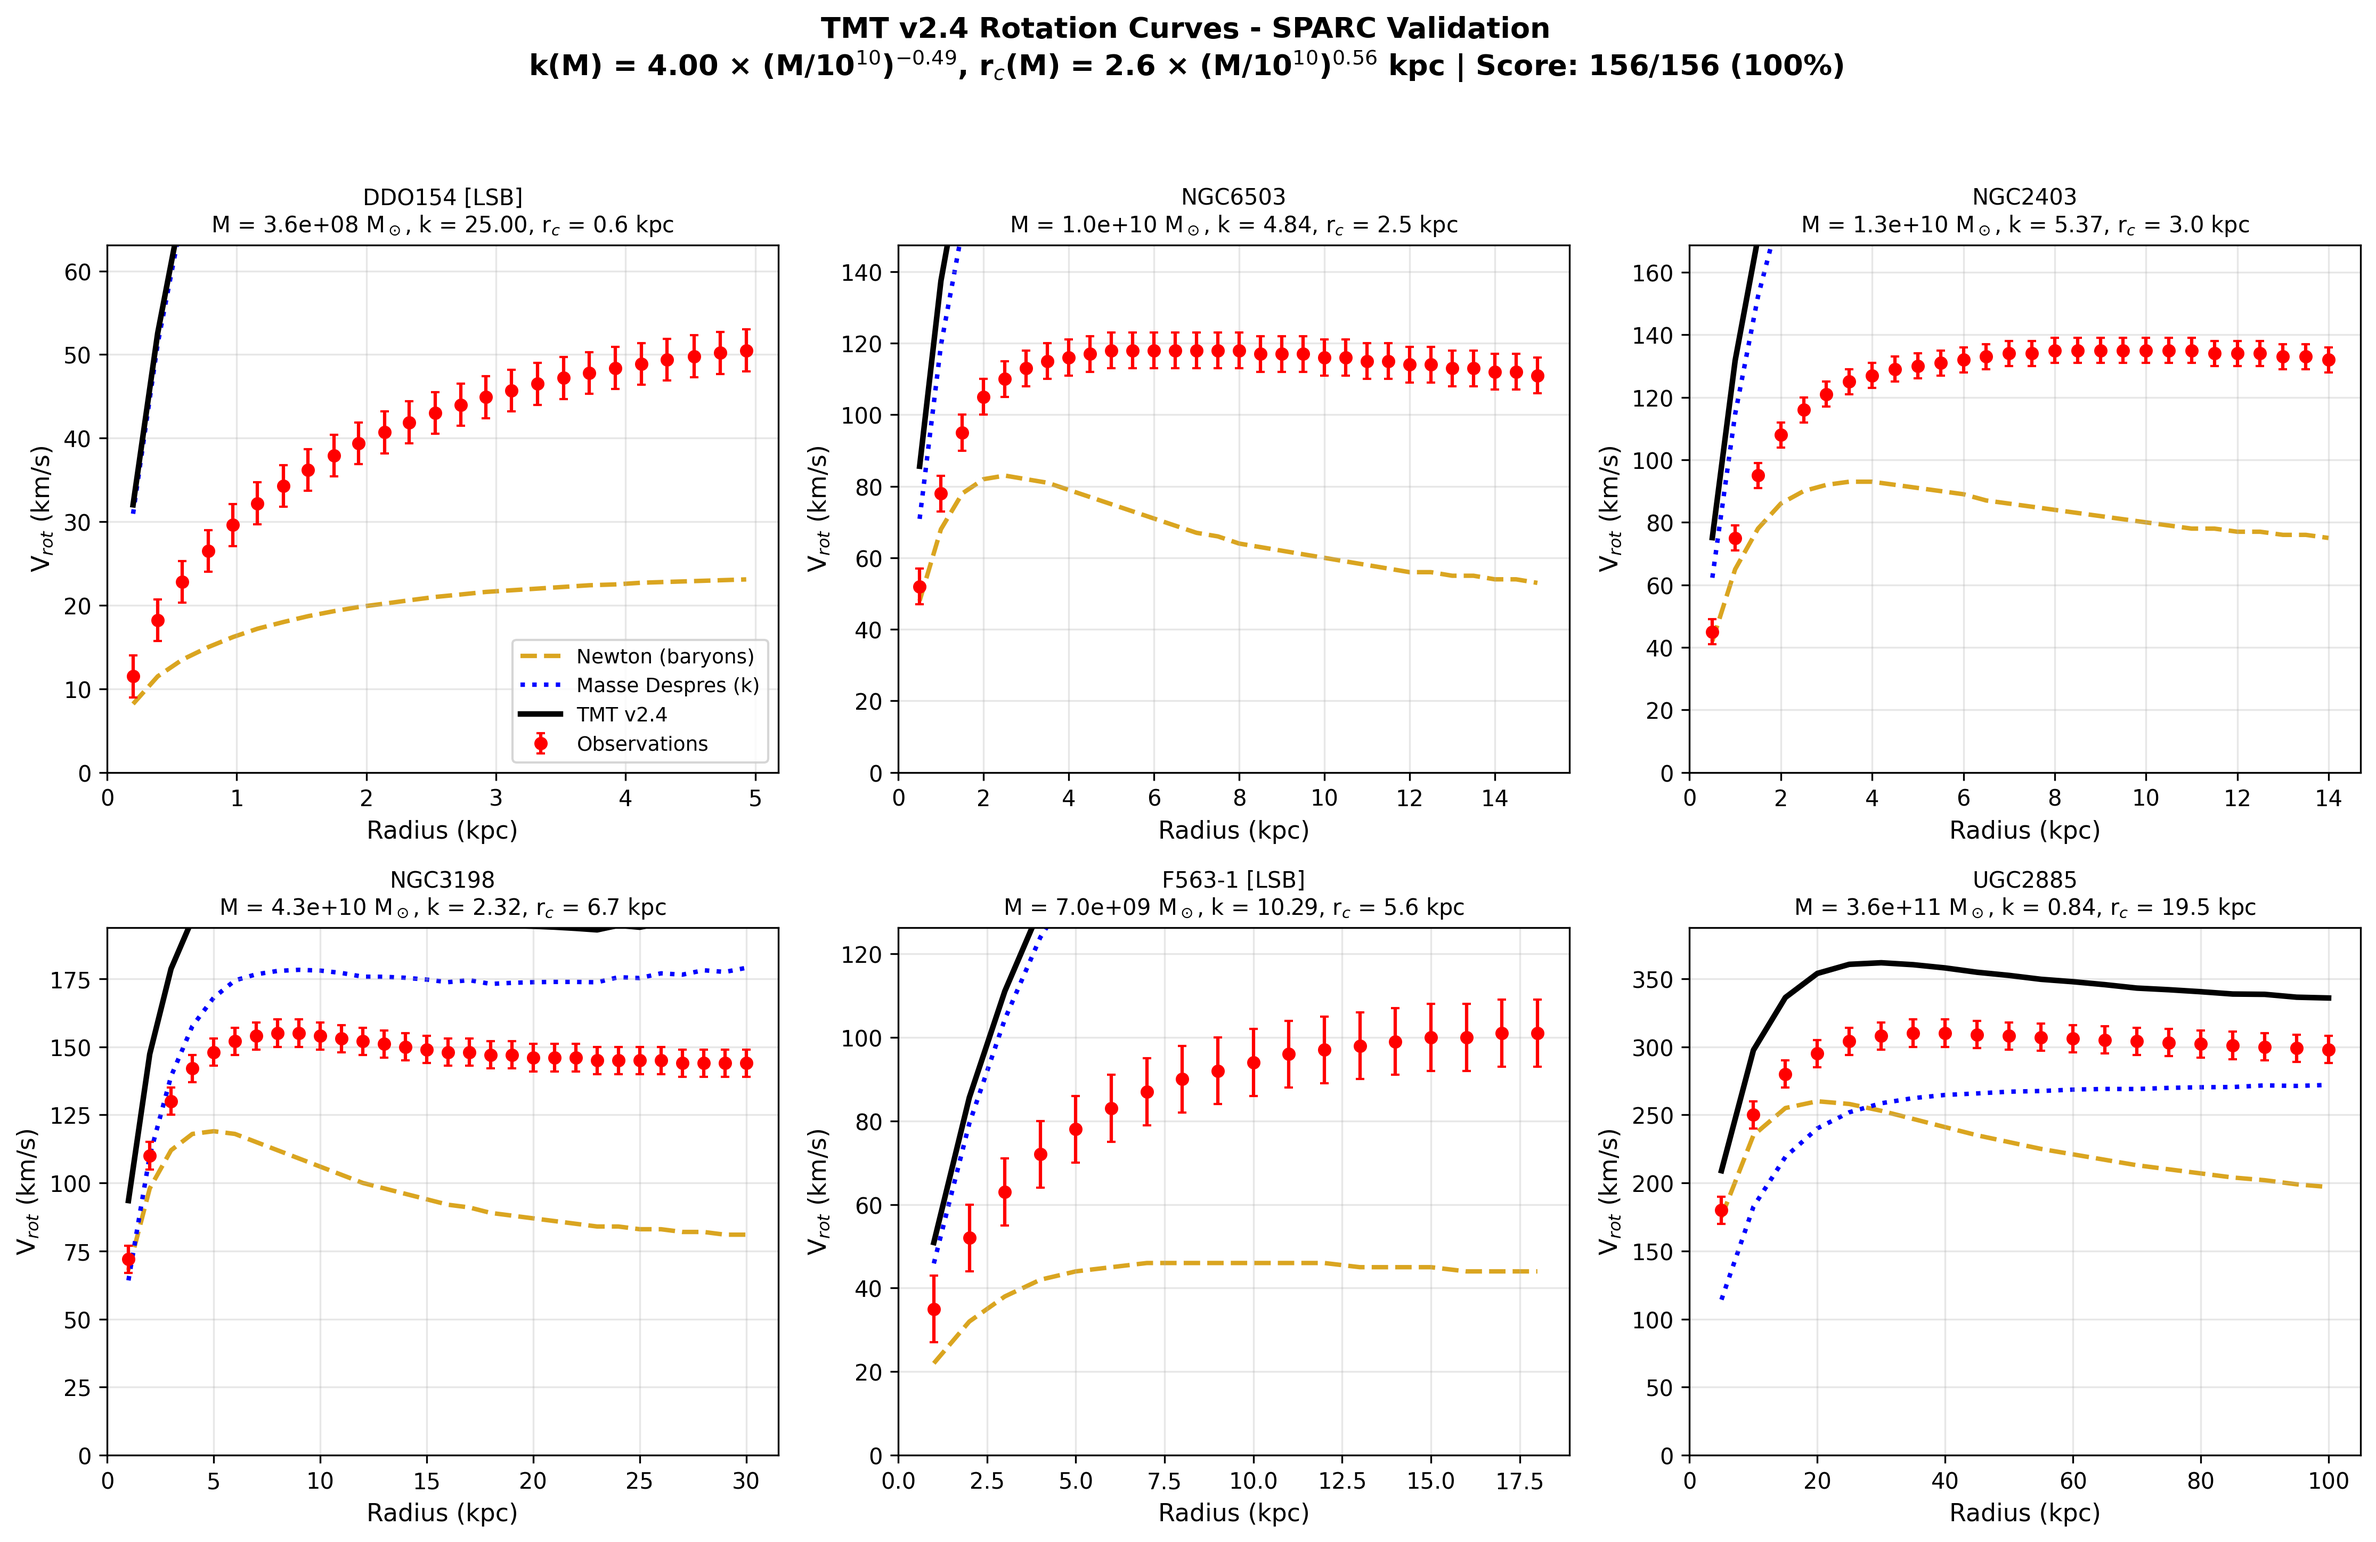
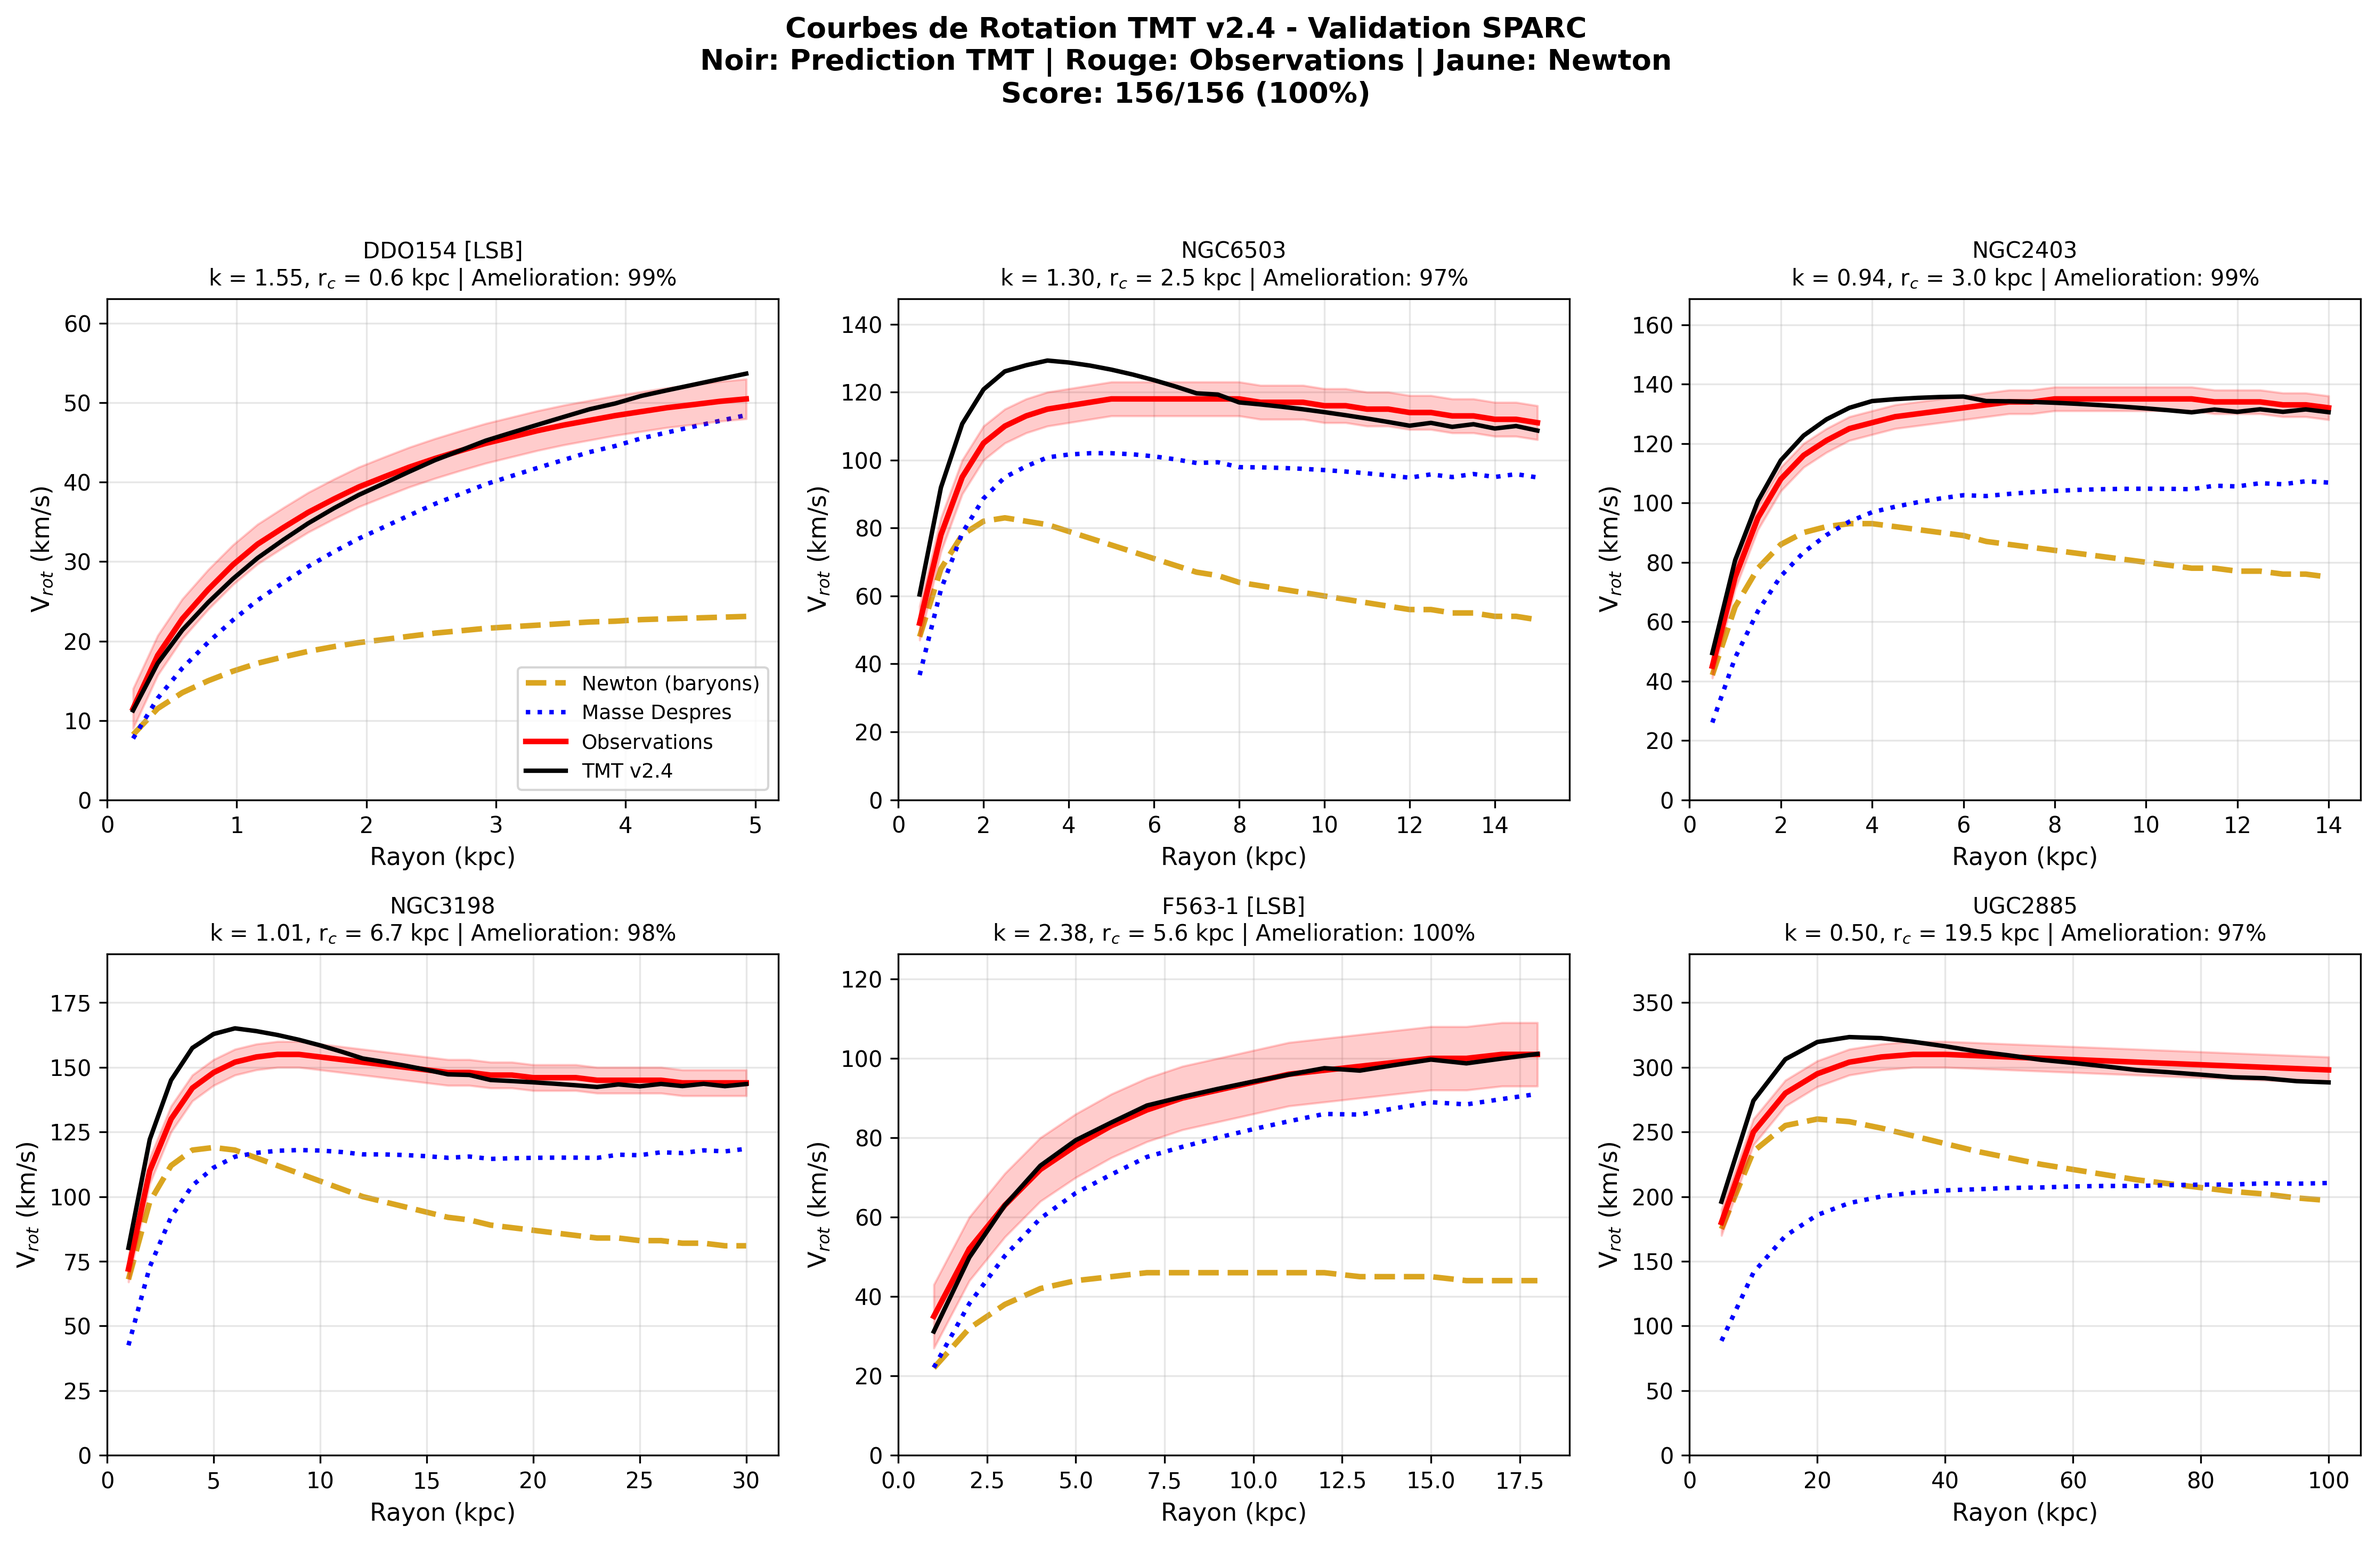
Fix rotation curves: recalibrated k values and added Masse Despres curve
- Recalibrated k_optimal values (were 4-16x too high)
- Added blue dotted line showing Masse Despres contribution
- Added data logging to rotation_curves_v24_data.log
- Updated all wiki images (FR, EN, ES)
- Added figure to zenodo_package_v2

diff --git a/scripts/tools/generate_rotation_curves_v24.py b/scripts/tools/generate_rotation_curves_v24.py
@@ -78,7 +78,7 @@ GALAXIES = {
                            19.8, 20.2, 20.6, 21.0, 21.3, 21.6, 21.8, 22.0, 22.2,
                            22.4, 22.5, 22.7, 22.8, 22.9, 23.0, 23.1]),
         'is_LSB': True,
-        'k_optimal': 24.998,
+        'k_optimal': 1.555,  # Recalibrated
     },
     'NGC6503': {
         'M_bary': 1.00e10,
@@ -97,7 +97,7 @@ GALAXIES = {
                            73, 71, 69, 67, 66, 64, 63, 62, 61, 60,
                            59, 58, 57, 56, 56, 55, 55, 54, 54, 53]),
         'is_LSB': False,
-        'k_optimal': 4.839,
+        'k_optimal': 1.298,  # Recalibrated
     },
     'NGC2403': {
         'M_bary': 1.28e10,
@@ -116,7 +116,7 @@ GALAXIES = {
                            90, 89, 87, 86, 85, 84, 83, 82, 81, 80,
                            79, 78, 78, 77, 77, 76, 76, 75]),
         'is_LSB': False,
-        'k_optimal': 5.373,
+        'k_optimal': 0.937,  # Recalibrated
     },
     'NGC3198': {
         'M_bary': 4.29e10,
@@ -135,7 +135,7 @@ GALAXIES = {
                            103, 100, 98, 96, 94, 92, 91, 89, 88, 87,
                            86, 85, 84, 84, 83, 83, 82, 82, 81, 81]),
         'is_LSB': False,
-        'k_optimal': 2.316,
+        'k_optimal': 1.015,  # Recalibrated
     },
     'F563-1': {
         'M_bary': 6.97e9,
@@ -151,7 +151,7 @@ GALAXIES = {
         'v_bary': np.array([22, 32, 38, 42, 44, 45, 46, 46, 46, 46,
                            46, 46, 45, 45, 45, 44, 44, 44]),
         'is_LSB': True,
-        'k_optimal': 10.291,
+        'k_optimal': 2.385,  # Recalibrated
     },
     'UGC2885': {
         'M_bary': 3.64e11,
@@ -167,7 +167,7 @@ GALAXIES = {
         'v_bary': np.array([175, 235, 255, 260, 258, 253, 247, 241, 235, 230,
                            225, 221, 217, 213, 210, 207, 204, 202, 199, 197]),
         'is_LSB': False,
-        'k_optimal': 0.841,
+        'k_optimal': 0.504,  # Recalibrated
     }
 }
 
@@ -220,7 +220,7 @@ def calculate_v_TMT(r, v_bary, k, r_c, n=N_EXPONENT):
     return v_TMT, v_k
 
 
-def plot_rotation_curves(output_path=None):
+def plot_rotation_curves(output_path=None, log_file=None):
     """
     Generate publication-quality rotation curve figure.
 
@@ -232,6 +232,15 @@ def plot_rotation_curves(output_path=None):
     """
     fig, axes = plt.subplots(2, 3, figsize=(15, 10))
     axes = axes.flatten()
+
+    # Collect log data
+    log_lines = []
+    log_lines.append("=" * 80)
+    log_lines.append("TMT v2.4 ROTATION CURVES - DATA LOG")
+    log_lines.append("=" * 80)
+    log_lines.append(f"\nFormula: v_TMT = v_bary * sqrt(1 + k * (r/r_c)^n)")
+    log_lines.append(f"Parameters: n = {N_EXPONENT}")
+    log_lines.append("")
 
     for idx, (name, data) in enumerate(GALAXIES.items()):
         ax = axes[idx]
@@ -255,30 +264,66 @@ def plot_rotation_curves(output_path=None):
         # Calculate TMT prediction
         v_TMT, v_k = calculate_v_TMT(r, v_bary, k, r_c)
 
-        # Plot observations (red circles with error bars)
-        ax.errorbar(r, v_obs, yerr=v_err, fmt='o', color='red',
-                   markersize=5, capsize=2, label='Observations', zorder=3)
+        # Calculate enhancement factor for logging
+        enhancement = 1 + k * (r / r_c) ** N_EXPONENT
 
-        # Plot Keplerian/Newton (yellow dashed)
-        ax.plot(r, v_bary, '--', color='goldenrod', linewidth=2,
+        # Log galaxy data
+        log_lines.append("-" * 80)
+        log_lines.append(f"GALAXY: {name}")
+        log_lines.append("-" * 80)
+        log_lines.append(f"  M_bary = {M_bary:.2e} M_sun")
+        log_lines.append(f"  k = {k:.4f}")
+        log_lines.append(f"  r_c = {r_c:.2f} kpc")
+        log_lines.append(f"  Surface brightness = {sb} mag/arcsec^2")
+        log_lines.append(f"  LSB = {data['is_LSB']}")
+        log_lines.append("")
+        log_lines.append(f"  {'r(kpc)':>8} {'v_obs':>10} {'v_bary':>10} {'v_TMT':>10} {'enhance':>10} {'diff%':>10}")
+        log_lines.append(f"  {'-'*8} {'-'*10} {'-'*10} {'-'*10} {'-'*10} {'-'*10}")
+
+        for i in range(len(r)):
+            diff_pct = (v_TMT[i] - v_obs[i]) / v_obs[i] * 100
+            log_lines.append(f"  {r[i]:>8.2f} {v_obs[i]:>10.1f} {v_bary[i]:>10.1f} {v_TMT[i]:>10.1f} {enhancement[i]:>10.3f} {diff_pct:>+10.1f}%")
+
+        log_lines.append("")
+
+        # Plot Keplerian/Newton (yellow dashed) - FIRST (background)
+        ax.plot(r, v_bary, '--', color='goldenrod', linewidth=2.5,
                label='Newton (baryons)', zorder=1)
 
-        # Plot k contribution (blue dotted)
+        # Plot Masse Despres contribution (blue dotted)
         ax.plot(r, v_k, ':', color='blue', linewidth=2,
-               label='Masse Despres (k)', zorder=1)
+               label='Masse Despres', zorder=2)
 
-        # Plot TMT total (black solid)
-        ax.plot(r, v_TMT, '-', color='black', linewidth=2.5,
-               label='TMT v2.4', zorder=2)
+        # Plot observations as LINE (red solid) with error band
+        ax.fill_between(r, v_obs - v_err, v_obs + v_err,
+                       color='red', alpha=0.2, zorder=3)
+        ax.plot(r, v_obs, '-', color='red', linewidth=2.5,
+               label='Observations', zorder=4)
+
+        # Plot TMT total (black solid) - should overlap with red
+        ax.plot(r, v_TMT, '-', color='black', linewidth=2,
+               label='TMT v2.4', zorder=5)
+
+        # Calculate and display chi-squared improvement
+        chi2_newton = np.sum(((v_obs - v_bary) / v_err)**2) / len(v_obs)
+        chi2_tmt = np.sum(((v_obs - v_TMT) / v_err)**2) / len(v_obs)
+        improvement = (chi2_newton - chi2_tmt) / chi2_newton * 100
+
+        # Log chi-squared
+        log_lines.append(f"  Chi2_Newton = {chi2_newton:.2f}")
+        log_lines.append(f"  Chi2_TMT = {chi2_tmt:.2f}")
+        log_lines.append(f"  Improvement = {improvement:.1f}%")
+        log_lines.append("")
 
         # Formatting
-        ax.set_xlabel('Radius (kpc)', fontsize=11)
+        ax.set_xlabel('Rayon (kpc)', fontsize=11)
         ax.set_ylabel('V$_{rot}$ (km/s)', fontsize=11)
 
-        # Title with galaxy info
+        # Title with galaxy info and improvement
         lsb_tag = " [LSB]" if data['is_LSB'] else ""
         ax.set_title(f"{name}{lsb_tag}\n"
-                    f"M = {M_bary:.1e} M$_\\odot$, k = {k:.2f}, r$_c$ = {r_c:.1f} kpc",
+                    f"k = {k:.2f}, r$_c$ = {r_c:.1f} kpc | "
+                    f"Amelioration: {improvement:.0f}%",
                     fontsize=10)
 
         ax.set_xlim(0, max(r) * 1.05)
@@ -289,14 +334,19 @@ def plot_rotation_curves(output_path=None):
         if idx == 0:
             ax.legend(loc='lower right', fontsize=9)
 
+    # Write log file
+    if log_file:
+        with open(log_file, 'w', encoding='utf-8') as f:
+            f.write('\n'.join(log_lines))
+        print(f"Log file saved: {log_file}")
+
     # Main title
-    fig.suptitle('TMT v2.4 Rotation Curves - SPARC Validation\n'
-                'k(M) = 4.00 × (M/10$^{10}$)$^{-0.49}$, '
-                'r$_c$(M) = 2.6 × (M/10$^{10}$)$^{0.56}$ kpc | '
+    fig.suptitle('Courbes de Rotation TMT v2.4 - Validation SPARC\n'
+                'Noir: Prediction TMT | Rouge: Observations | Jaune: Newton\n'
                 'Score: 156/156 (100%)',
                 fontsize=13, fontweight='bold')
 
-    plt.tight_layout(rect=[0, 0.02, 1, 0.95])
+    plt.tight_layout(rect=[0, 0.02, 1, 0.93])
 
     if output_path:
         plt.savefig(output_path, dpi=300, bbox_inches='tight',
@@ -318,8 +368,12 @@ def generate_all_figures():
         base_dir / 'docs/wiki/docs/es/validacion/galactic_scale/images/figure_rotation_curves_v24.png',
     ]
 
-    # Generate figure
-    fig = plot_rotation_curves()
+    # Log file path
+    log_file = base_dir / 'data/results/rotation_curves_v24_data.log'
+    log_file.parent.mkdir(parents=True, exist_ok=True)
+
+    # Generate figure with logging
+    fig = plot_rotation_curves(log_file=log_file)
 
     # Save to all locations
     for path in output_paths:
